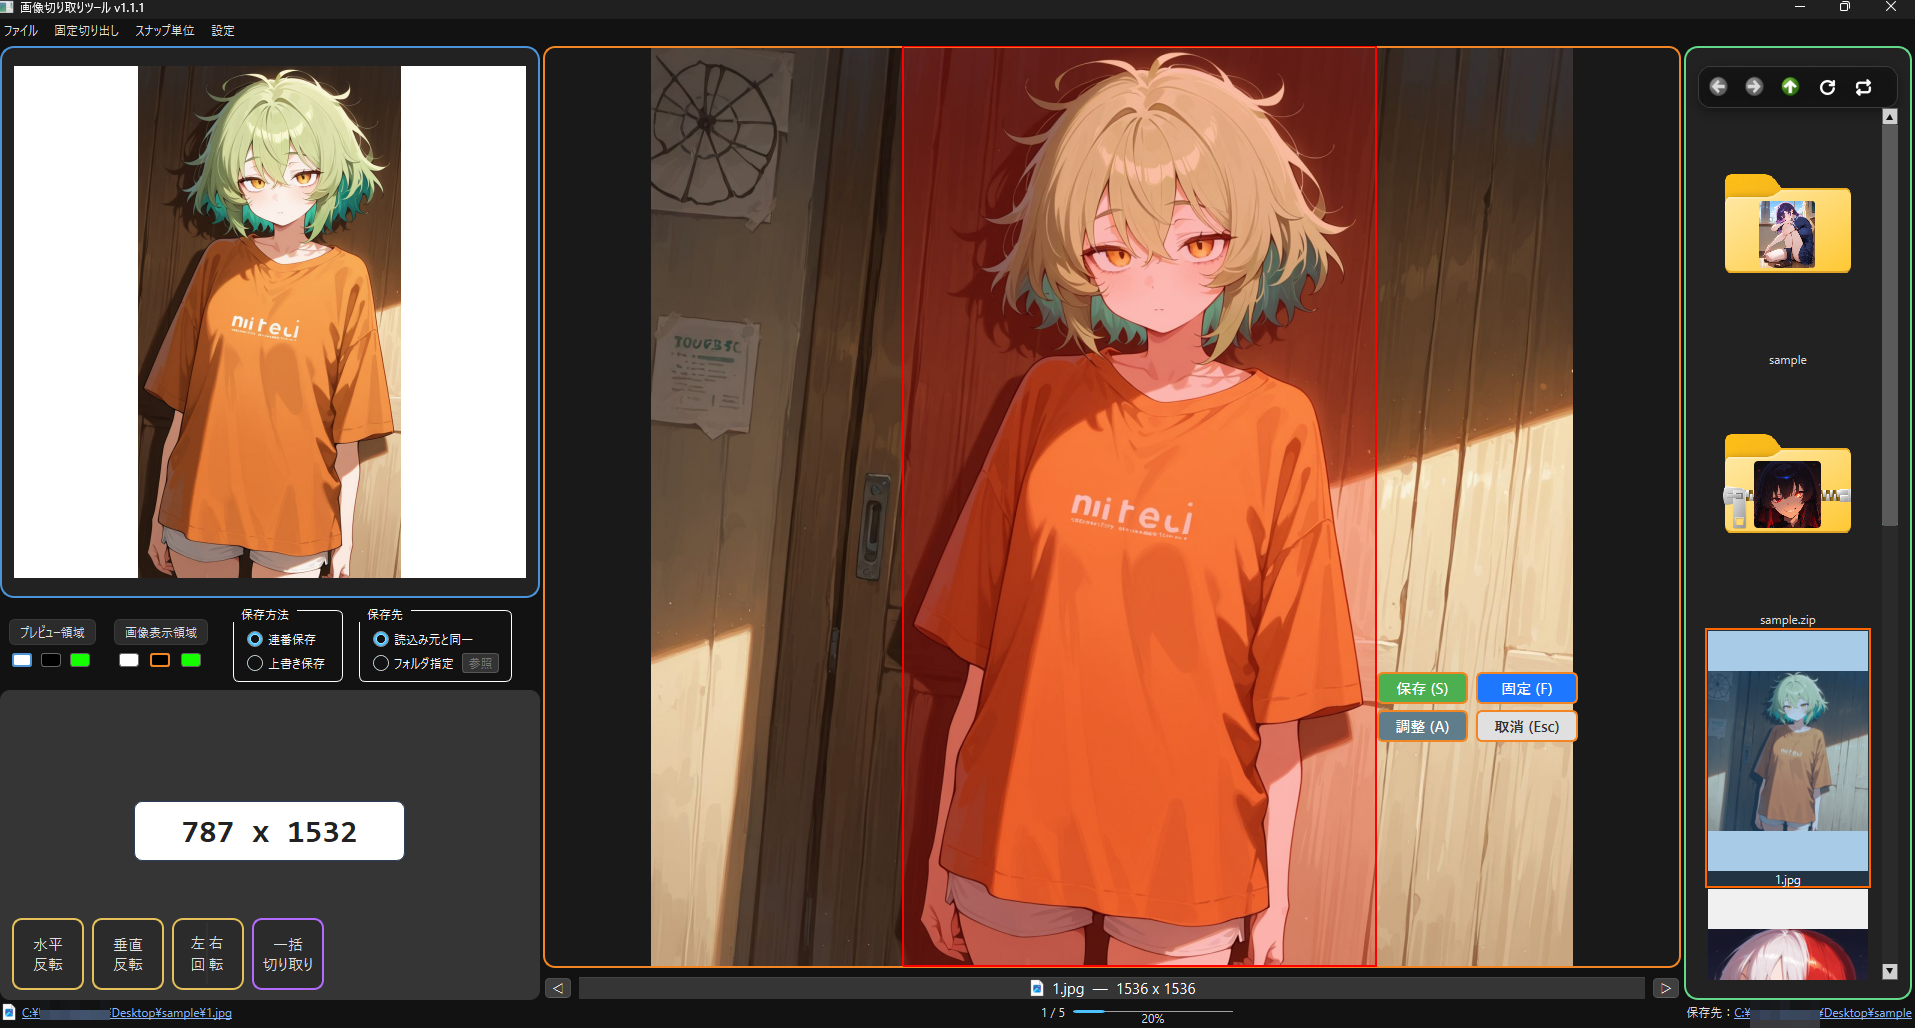
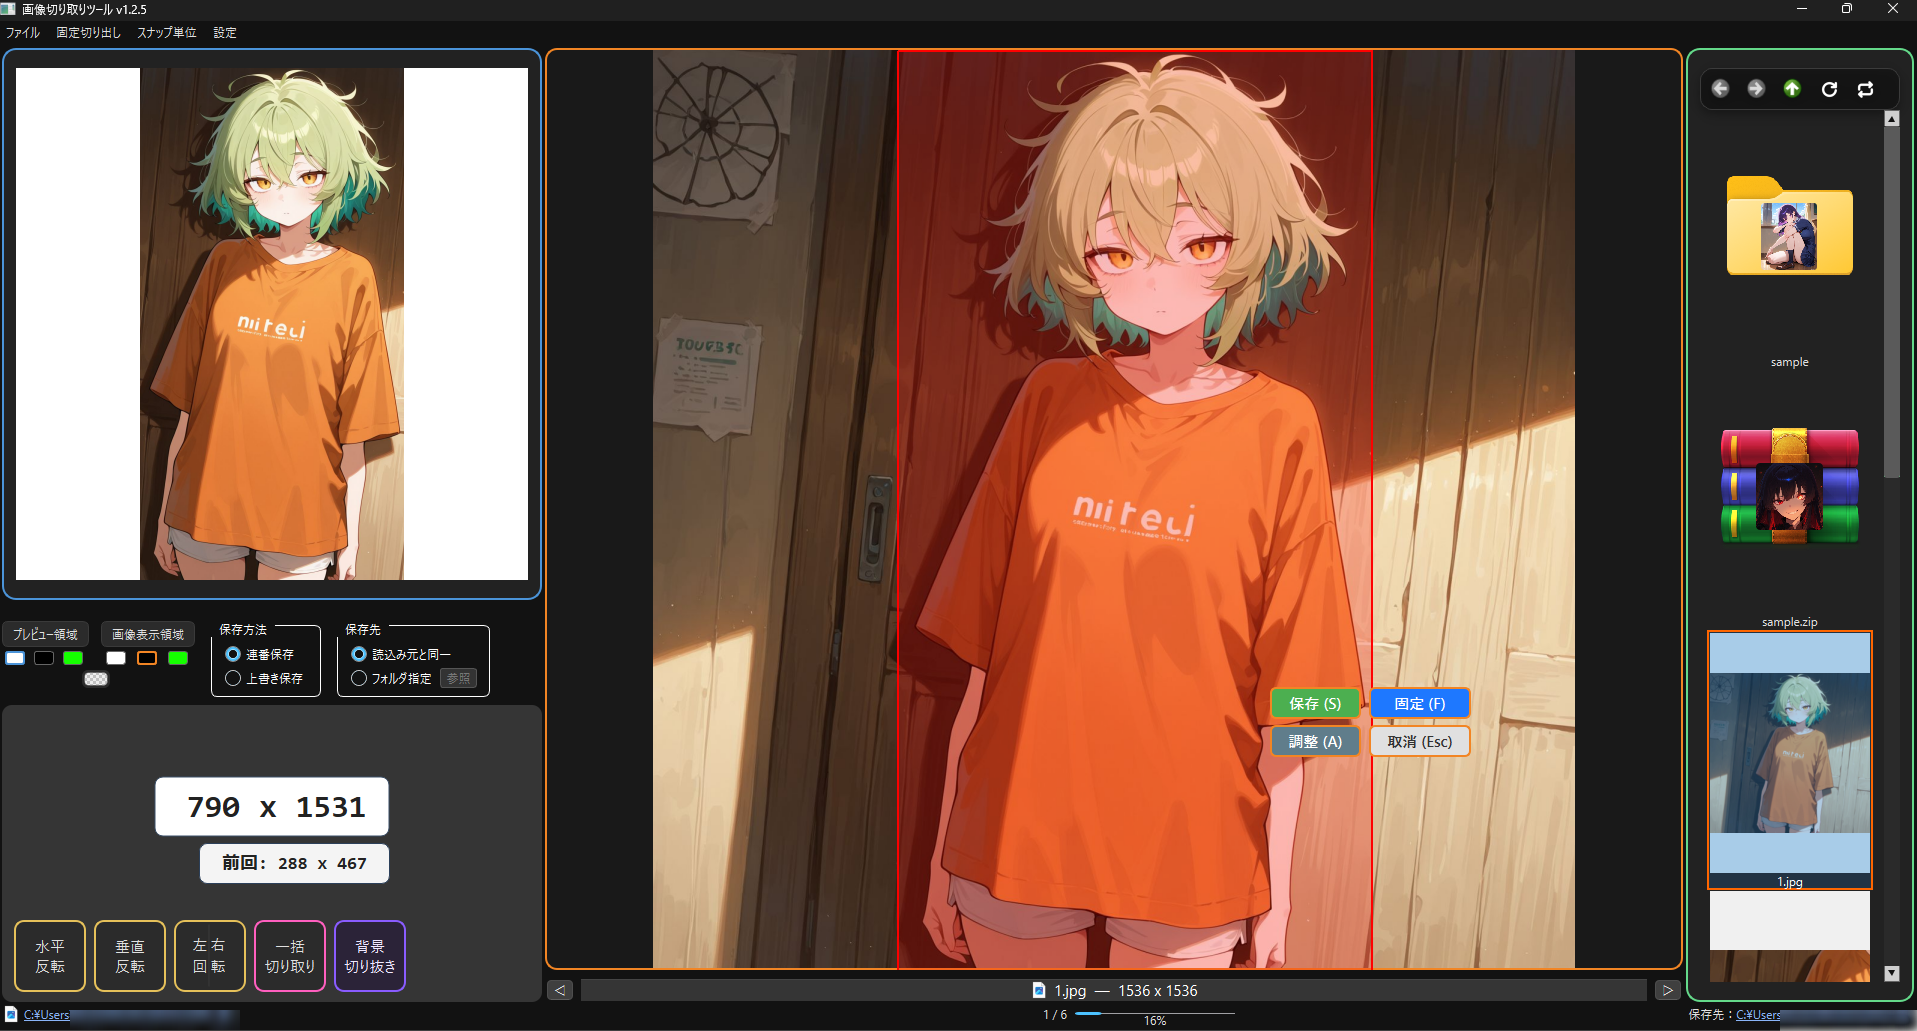
Update v1.2.5

diff --git a/gazou_kiritori.py b/gazou_kiritori.py
@@ -52,7 +52,7 @@ except Exception:
     py7zr = None
 
 APP_NAME = "画像切り取りツール"
-APP_VERSION = "1.2.4" 
+APP_VERSION = "1.2.5" 
 
 IMAGE_EXTS = {".png", ".jpg", ".jpeg", ".webp", ".bmp", ".gif", ".tif", ".tiff"}
 
@@ -1368,6 +1368,102 @@ class _CropSizeDisplayLabel(QtWidgets.QLabel):
         )
         p.restore()
 
+class LastSavedSizeLabel(QtWidgets.QLabel):
+    clicked = QtCore.pyqtSignal()
+
+    def __init__(self, text="前回: 未保存", parent=None):
+        super().__init__(text, parent)
+        self._hover = False
+        self._enabled_click = False
+        self._flash = False
+
+        self.setAlignment(QtCore.Qt.AlignmentFlag.AlignCenter)
+        self.setAttribute(QtCore.Qt.WidgetAttribute.WA_Hover, True)
+        self.setMouseTracking(True)
+
+        f = self.font()
+        f.setPixelSize(18)
+        f.setBold(True)
+        try:
+            f.setFamilies(["Consolas", "Cascadia Mono", "Source Code Pro", "Meiryo", "Monospace"])
+        except AttributeError:
+            f.setFamily("Consolas")
+        self.setFont(f)
+
+        fm = QtGui.QFontMetrics(self.font())
+        reserve = fm.horizontalAdvance("前回: 9999 x 9999")
+        padding_lr = 24
+        self.setFixedWidth(reserve + padding_lr + 2)
+
+        self._flash_timer = QtCore.QTimer(self)
+        self._flash_timer.setSingleShot(True)
+        self._flash_timer.timeout.connect(self._clear_flash)
+
+        self._apply_style()
+
+    def _clear_flash(self):
+        self._flash = False
+        self._apply_style()
+
+    def flash_applied(self):
+        self._flash = True
+        self._apply_style()
+        self._flash_timer.stop()
+        self._flash_timer.start(220)
+
+    def set_apply_enabled(self, enabled: bool):
+        self._enabled_click = bool(enabled)
+        if self._enabled_click:
+            self.setCursor(QtGui.QCursor(QtCore.Qt.CursorShape.PointingHandCursor))
+        else:
+            self.setCursor(QtGui.QCursor(QtCore.Qt.CursorShape.ArrowCursor))
+        self._apply_style()
+
+    def _apply_style(self):
+        if not self._enabled_click:
+            border = "#5a5a5a"
+            bg = "#d9d9d9"
+            fg = "#666666"
+        elif self._flash:
+            border = "#7fb2ff"
+            bg = "#eef5ff"
+            fg = "#1f2d3d"
+        elif self._hover:
+            border = "#7fb2ff"
+            bg = "#ffffff"
+            fg = "#222222"
+        else:
+            border = "#2c405a"
+            bg = "#f4f4f4"
+            fg = "#222222"
+
+        self.setStyleSheet(f"""
+            QLabel {{
+                color: {fg};
+                background: {bg};
+                border: 1px solid {border};
+                border-radius: 8px;
+                padding: 6px 12px;
+            }}
+        """)
+
+    def enterEvent(self, event):
+        self._hover = True
+        self._apply_style()
+        super().enterEvent(event)
+
+    def leaveEvent(self, event):
+        self._hover = False
+        self._apply_style()
+        super().leaveEvent(event)
+
+    def mouseReleaseEvent(self, event):
+        if self._enabled_click and event.button() == QtCore.Qt.MouseButton.LeftButton:
+            self.clicked.emit()
+            event.accept()
+            return
+        super().mouseReleaseEvent(event)
+
 class _CropSizeLineEdit(QtWidgets.QLineEdit):
     enterPressed = QtCore.pyqtSignal()
     escapePressed = QtCore.pyqtSignal()
@@ -1398,6 +1494,7 @@ class InlineCropSizeWidget(QtWidgets.QFrame):
         self._last_text = "0 x 0"
         self._edit_target_side = "left"   # ★ 追加
         self._edit_enabled = True
+        self._suppress_next_outside_commit = False
 
         self.setFrameShape(QtWidgets.QFrame.Shape.NoFrame)
 
@@ -1649,7 +1746,6 @@ class InlineCropSizeWidget(QtWidgets.QFrame):
         if not self._editing:
             return
 
-        # 編集UI内部の移動（幅→高さ など）は無視
         if now is not None:
             cur = now
             while cur is not None:
@@ -1657,7 +1753,10 @@ class InlineCropSizeWidget(QtWidgets.QFrame):
                     return
                 cur = cur.parentWidget()
 
-        # 編集UIの外へ出た → 確定（不正なら内部でキャンセル）
+        if self._suppress_next_outside_commit:
+            self._suppress_next_outside_commit = False
+            return
+
         QtCore.QTimer.singleShot(0, self.commit_edit)
 
     def eventFilter(self, obj, event):
@@ -1666,18 +1765,29 @@ class InlineCropSizeWidget(QtWidgets.QFrame):
 
         if event.type() == QtCore.QEvent.Type.MouseButtonPress:
             try:
-                # クリック位置（グローバル座標）
+                app = QtWidgets.QApplication.instance()
+
                 if hasattr(event, "globalPosition"):
                     gp = event.globalPosition().toPoint()
                 else:
                     gp = event.globalPos()
 
-                # editor_host の画面上矩形
+                # ★ 前回保存ラベルへのクリックは「外クリック確定」にしない
+                hit = app.widgetAt(gp) if app is not None else None
+                cur = hit
+                while cur is not None:
+                    if isinstance(cur, LastSavedSizeLabel):
+                        return super().eventFilter(obj, event)
+                    cur = cur.parentWidget()
+
                 top_left = self.editor_host.mapToGlobal(QtCore.QPoint(0, 0))
                 rect = QtCore.QRect(top_left, self.editor_host.size())
 
-                # 編集ボックス外クリックなら確定
                 if not rect.contains(gp):
+                    if self._suppress_next_outside_commit:
+                        self._suppress_next_outside_commit = False
+                        return super().eventFilter(obj, event)
+
                     QtCore.QTimer.singleShot(0, self.commit_edit)
             except Exception:
                 pass
@@ -1691,6 +1801,9 @@ class InlineCropSizeWidget(QtWidgets.QFrame):
         except Exception:
             pass
         super().closeEvent(event)
+
+    def suppress_next_outside_commit(self):
+        self._suppress_next_outside_commit = True
 
 class SquareLabel(QtWidgets.QLabel):
     def __init__(self, parent=None, min_side=256, base_side=512):
@@ -5410,7 +5523,15 @@ class CropperApp(QtWidgets.QMainWindow):
         self.crop_size_label.editStarted.connect(self._on_crop_size_edit_started)
         self.crop_size_label.editFinished.connect(self._on_crop_size_edit_finished)
         self.crop_size_label.sizeConfirmed.connect(self._on_crop_size_inline_confirmed)
+
+        # 直近保存サイズラベル
+        self._last_saved_size = None  # (w, h) or None
+        self.last_saved_size_label = LastSavedSizeLabel("前回: 未保存", self)
+        self.last_saved_size_label.setToolTip("保存後に再利用できます")
+        self.last_saved_size_label.clicked.connect(self._on_last_saved_size_clicked)
+
         self._update_crop_size_edit_enabled()
+        self._set_last_saved_size(None)
 
         # ★ 画像の水平反転ボタン（2行表示＆正方形）
         self.btn_flip_horizontal = QtWidgets.QPushButton("水平\n反転")
@@ -5903,9 +6024,26 @@ class CropperApp(QtWidgets.QMainWindow):
         # 上側の余白
         self.sub_panel_layout.addStretch(2)
 
-        # 解像度ラベル（灰色エリアの中央に来る）
-        self.sub_panel_layout.addWidget(
+        # 解像度ラベル＋前回保存ラベル
+        self.size_label_wrap = QtWidgets.QWidget()
+        size_wrap_layout = QtWidgets.QVBoxLayout(self.size_label_wrap)
+        size_wrap_layout.setContentsMargins(0, 0, 0, 0)
+        size_wrap_layout.setSpacing(6)
+
+        size_wrap_layout.addWidget(
             self.crop_size_label,
+            alignment=QtCore.Qt.AlignmentFlag.AlignHCenter
+        )
+
+        last_row = QtWidgets.QHBoxLayout()
+        last_row.setContentsMargins(0, 0, 0, 0)
+        last_row.setSpacing(0)
+        last_row.addStretch(1)
+        last_row.addWidget(self.last_saved_size_label, 0, QtCore.Qt.AlignmentFlag.AlignRight)
+        size_wrap_layout.addLayout(last_row)
+
+        self.sub_panel_layout.addWidget(
+            self.size_label_wrap,
             alignment=QtCore.Qt.AlignmentFlag.AlignHCenter
         )
 
@@ -12729,6 +12867,11 @@ class CropperApp(QtWidgets.QMainWindow):
                     print("[thumb] invalidate request failed:", e)
 
                 saved_path = dst_path
+
+                try:
+                    self._update_last_saved_size_from_path(saved_path)
+                except Exception:
+                    pass
                 return True, saved_path
 
             # ========== 通常（連番保存） ==========
@@ -12761,6 +12904,11 @@ class CropperApp(QtWidgets.QMainWindow):
                 print("保存:", candidate)
 
             saved_path = candidate
+
+            try:
+                self._update_last_saved_size_from_path(saved_path)
+            except Exception:
+                pass
             return True, saved_path
 
         except Exception as e:
@@ -13142,6 +13290,11 @@ class CropperApp(QtWidgets.QMainWindow):
                 cropped.save(str(dst_path), **save_kwargs)
                 processed += 1
                 _log("[BATCH] saved OK", str(dst_path))
+
+                try:
+                    self._update_last_saved_size_from_path(str(dst_path))
+                except Exception:
+                    pass
 
                 # ★ 上書き時は“変更されたパス”を記録してサムネ更新に使う
                 if overwrite:
@@ -13624,14 +13777,25 @@ class CropperApp(QtWidgets.QMainWindow):
         self.custom_size = new_size
         self.update_custom_edit_action_text()
 
-        # ★ 追加:
-        # すでに同じ固定サイズが有効なら、再適用も解除もせず何もしない
         try:
             if (
                 getattr(self.label, "fixed_crop_mode", False)
                 and getattr(self.label, "fixed_crop_size", None) == new_size
             ):
-                return
+                if bool(getattr(self.label, "_aspect_lock", False)):
+                    try:
+                        self.label._aspect_base_wh = new_size
+                        self.label._aspect_ratio = float(new_size[0]) / float(new_size[1])
+                    except Exception:
+                        self.label._aspect_ratio = None
+
+                    try:
+                        panel = getattr(self, "_nudge_overlay", None)
+                        if panel and hasattr(panel, "update_aspect_base"):
+                            panel.update_aspect_base(new_size)
+                    except Exception:
+                        pass
+                    return
         except Exception:
             pass
 
@@ -13651,6 +13815,20 @@ class CropperApp(QtWidgets.QMainWindow):
             pass
 
         self.fixed_crop_triggered(self.custom_size, True)
+
+        if bool(getattr(self.label, "_aspect_lock", False)):
+            try:
+                self.label._aspect_base_wh = new_size
+                self.label._aspect_ratio = float(new_size[0]) / float(new_size[1])
+            except Exception:
+                self.label._aspect_ratio = None
+
+            try:
+                panel = getattr(self, "_nudge_overlay", None)
+                if panel and hasattr(panel, "update_aspect_base"):
+                    panel.update_aspect_base(new_size)
+            except Exception:
+                pass
 
     def _rect_size_for_label(self, rect, img_space=False):
         if rect is None:
@@ -13942,7 +14120,7 @@ class CropperApp(QtWidgets.QMainWindow):
                 except Exception:
                     self.label._aspect_ratio = None
                 # NudgePanel の表示（"基準: W×H"）も更新
-                panel = getattr(self, "_nudge_panel", None)
+                panel = getattr(self, "_nudge_overlay", None)
                 if panel and hasattr(panel, "update_aspect_base"):
                     panel.update_aspect_base(self.label._aspect_base_wh)
         except Exception:
@@ -14043,6 +14221,71 @@ class CropperApp(QtWidgets.QMainWindow):
             self.crop_size_label.set_edit_enabled(has_image)
         except Exception:
             pass
+
+        try:
+            self._update_last_saved_size_label_enabled()
+        except Exception:
+            pass
+
+    def _set_last_saved_size(self, size_tuple):
+        if size_tuple is None:
+            self._last_saved_size = None
+            self.last_saved_size_label.setText("前回: 未保存")
+        else:
+            w, h = map(int, size_tuple)
+            self._last_saved_size = (w, h)
+            self.last_saved_size_label.setText(f"前回: {w} x {h}")
+        self._update_last_saved_size_label_enabled()
+
+    def _update_last_saved_size_label_enabled(self):
+        has_image = bool(getattr(self, "image", None))
+        has_saved = self._last_saved_size is not None
+
+        enabled = has_image and has_saved
+        self.last_saved_size_label.set_apply_enabled(enabled)
+
+        if enabled:
+            self.last_saved_size_label.setToolTip("クリックでこのサイズを適用")
+        else:
+            self.last_saved_size_label.setToolTip("保存後に再利用できます")
+
+    def _update_last_saved_size_from_path(self, saved_path: str):
+        try:
+            with Image.open(saved_path) as im:
+                w, h = im.size
+            self._set_last_saved_size((w, h))
+        except Exception:
+            pass
+
+    def _apply_last_saved_size(self):
+        if self._last_saved_size is None:
+            return
+        if not getattr(self, "image", None):
+            return
+
+        try:
+            if self.crop_size_label.is_editing():
+                self.crop_size_label.suppress_next_outside_commit()
+                self.crop_size_label.cancel_edit()
+        except Exception:
+            pass
+
+        w, h = self._last_saved_size
+
+        try:
+            if (
+                getattr(self.label, "fixed_crop_mode", False)
+                and getattr(self.label, "fixed_crop_size", None) == (w, h)
+            ):
+                return
+        except Exception:
+            pass
+
+        self._on_crop_size_inline_confirmed(w, h)
+        self.last_saved_size_label.flash_applied()
+
+    def _on_last_saved_size_clicked(self):
+        self._apply_last_saved_size()
 
     def pan_image(self, dx, dy):
         # ラベルのオフセット値を変更
